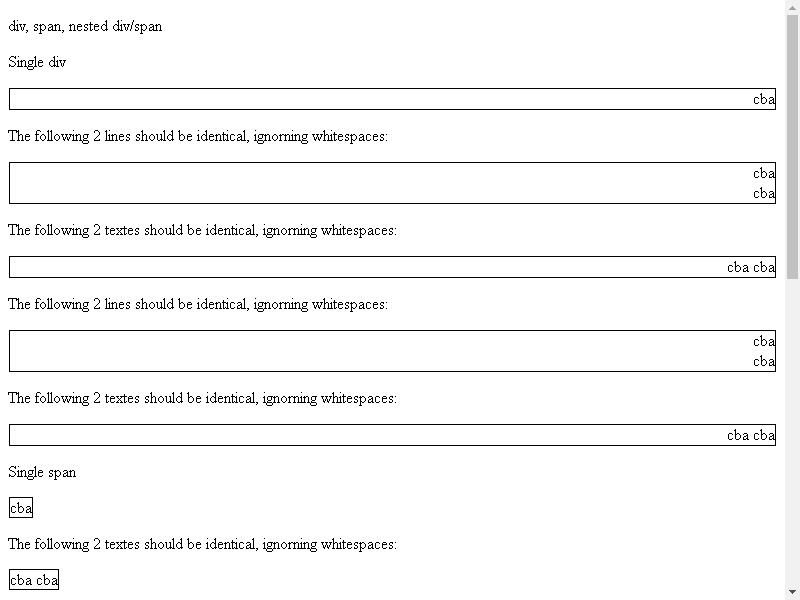
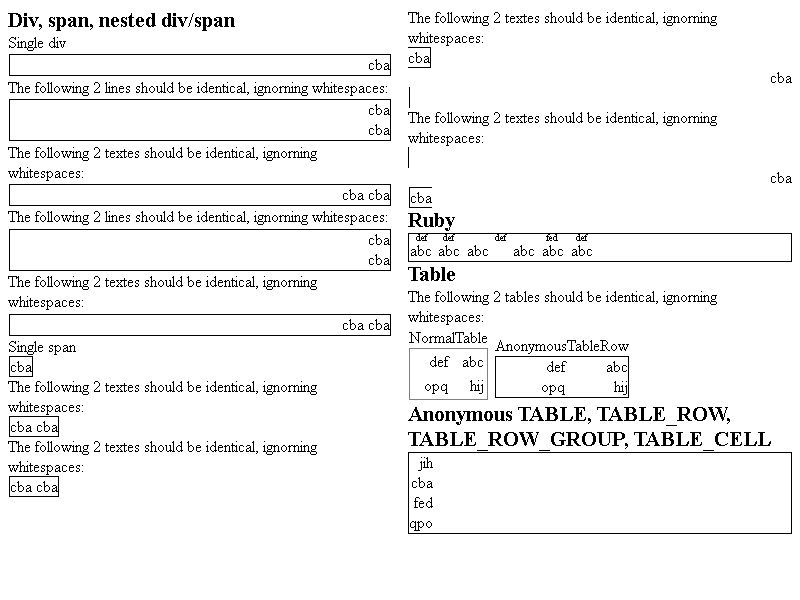
Update bidi-override-in-anonymous-block.html
It's a pixel test, but some parts of the page are outside of the
viewport. This CL updates the test so that all contents are visible in
the viewport.

This CL has no behavior changes.

Auto-Submit: Kent Tamura <tkent@chromium.org>
Commit-Queue: Koji Ishii <kojii@chromium.org>
Cr-Commit-Position: refs/heads/main@{#1295346}

diff --git a/web_tests/fast/css/bidi-override-in-anonymous-block.html b/web_tests/fast/css/bidi-override-in-anonymous-block.html
@@ -11,11 +11,21 @@
     direction: rtl;
     unicode-bidi:bidi-override;
 }
+body {
+  columns: 2;
+}
+h1 {
+  font-size: 1.3rem;
+  margin: 0;
+}
+p {
+  margin: 0;
+}
 </style>
 </head>
 <body>
 
-<p>div, span, nested div/span</p>
+<h1>Div, span, nested div/span</h1>
 <p>Single div</p>
 <div class="decoration bidi-override">abc</div> 
 <p>The following 2 lines should be identical, ignorning whitespaces:</p>
@@ -37,7 +47,7 @@
 <p>The following 2 textes should be identical, ignorning whitespaces:</p>
 <span class="decoration bidi-override"><div>cba </div>abc</span>
 
-<p>ruby</p>
+<h1>Ruby</h1>
 <div  style="border-width:0.2ex; border-style: solid">
 <ruby class="bidi-override" style="margin:0.2ex">abc<rt>def</rt></ruby>
 <ruby class="bidi-override" style="margin:0.2ex">abc<rt class="bidi-override">def</rt></ruby>
@@ -48,10 +58,11 @@
 <ruby class="bidi-override" style="margin:0.2ex"><rb>abc<rt>def</rt></rb></ruby>
 </div>
 
+<h1>Table</h1>
 <p>The following 2 tables should be identical, ignorning whitespaces:</p>
-<table class="decoration bidi-override"><caption>NormalTable</caption><tr><td>abc</td><td>def</td></tr><tr><td>hij</td><td>opq</td></tr></table>
+<table class="decoration bidi-override" style="display:inline-table"><caption>NormalTable</caption><tr><td>abc</td><td>def</td></tr><tr><td>hij</td><td>opq</td></tr></table>
 
-<div class="decoration bidi-override" style="display:table">
+<div class="decoration bidi-override" style="display:inline-table">
     <div style="display: table-caption">AnonymousTableRow</div>
     <div style="display: table-row">
         <div style="display: table-cell">abc</div>
@@ -63,7 +74,7 @@
     </div>
 </div>
 
-<p>Anonymous TABLE, TABLE_ROW, TABLE_ROW_GROUP, TABLE_CELL</p>
+<h1>Anonymous TABLE, TABLE_ROW, TABLE_ROW_GROUP, TABLE_CELL</h1>
 <div  style="border-width:0.2ex; border-style: solid">
 <div class="bidi-override" style="display:table-row;">abc</div> 
 <div class="bidi-override" style="display:table-cell;">def</div>
